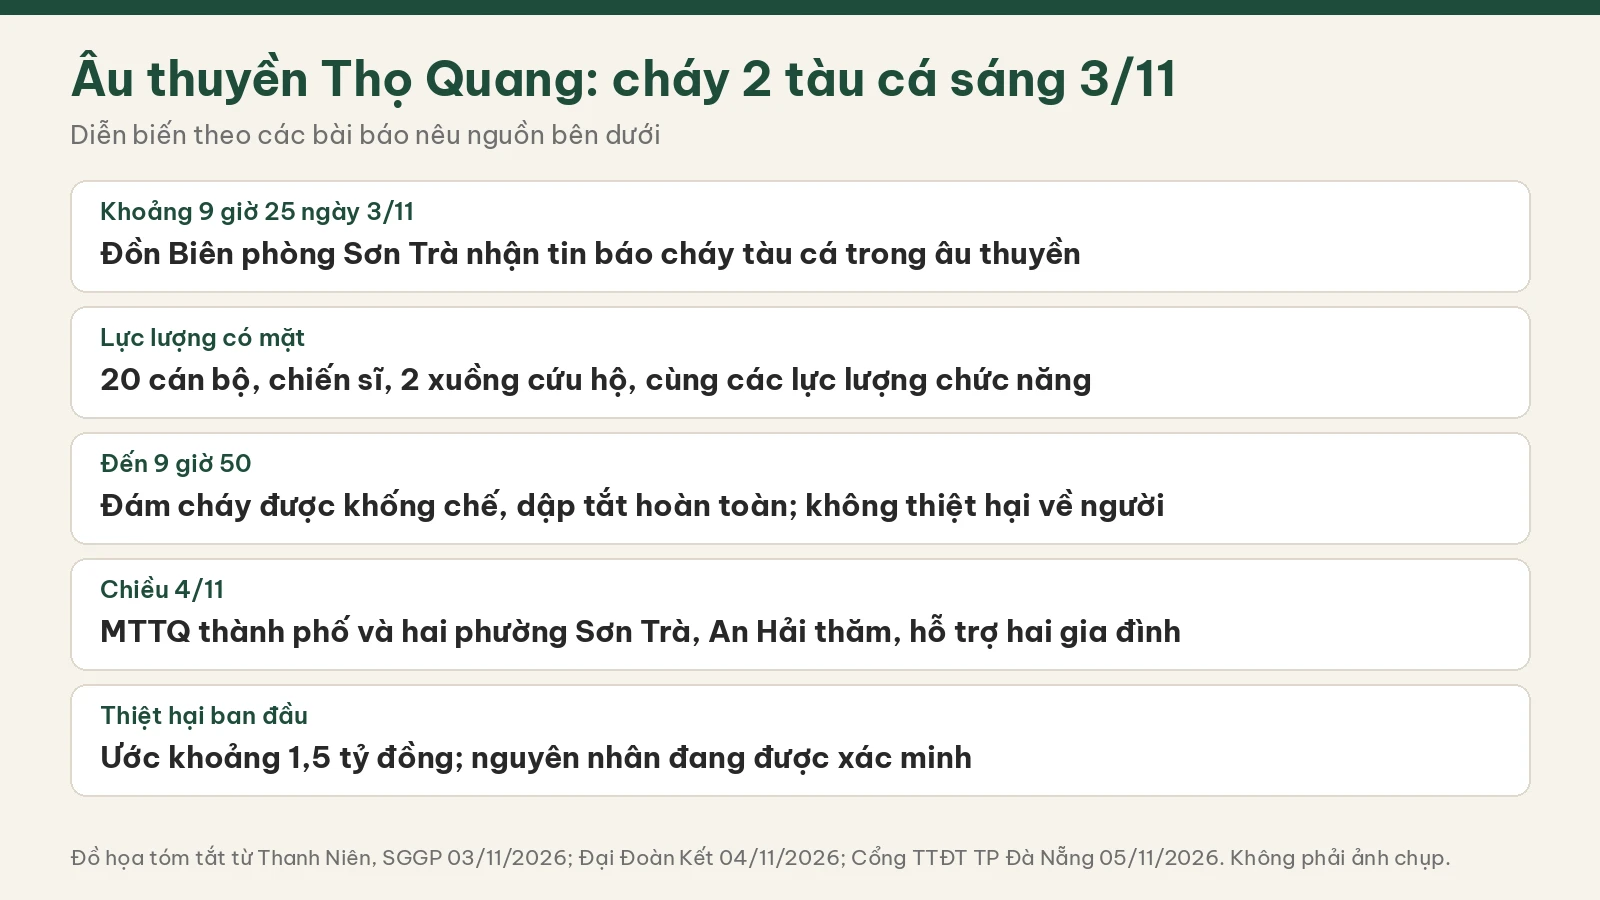
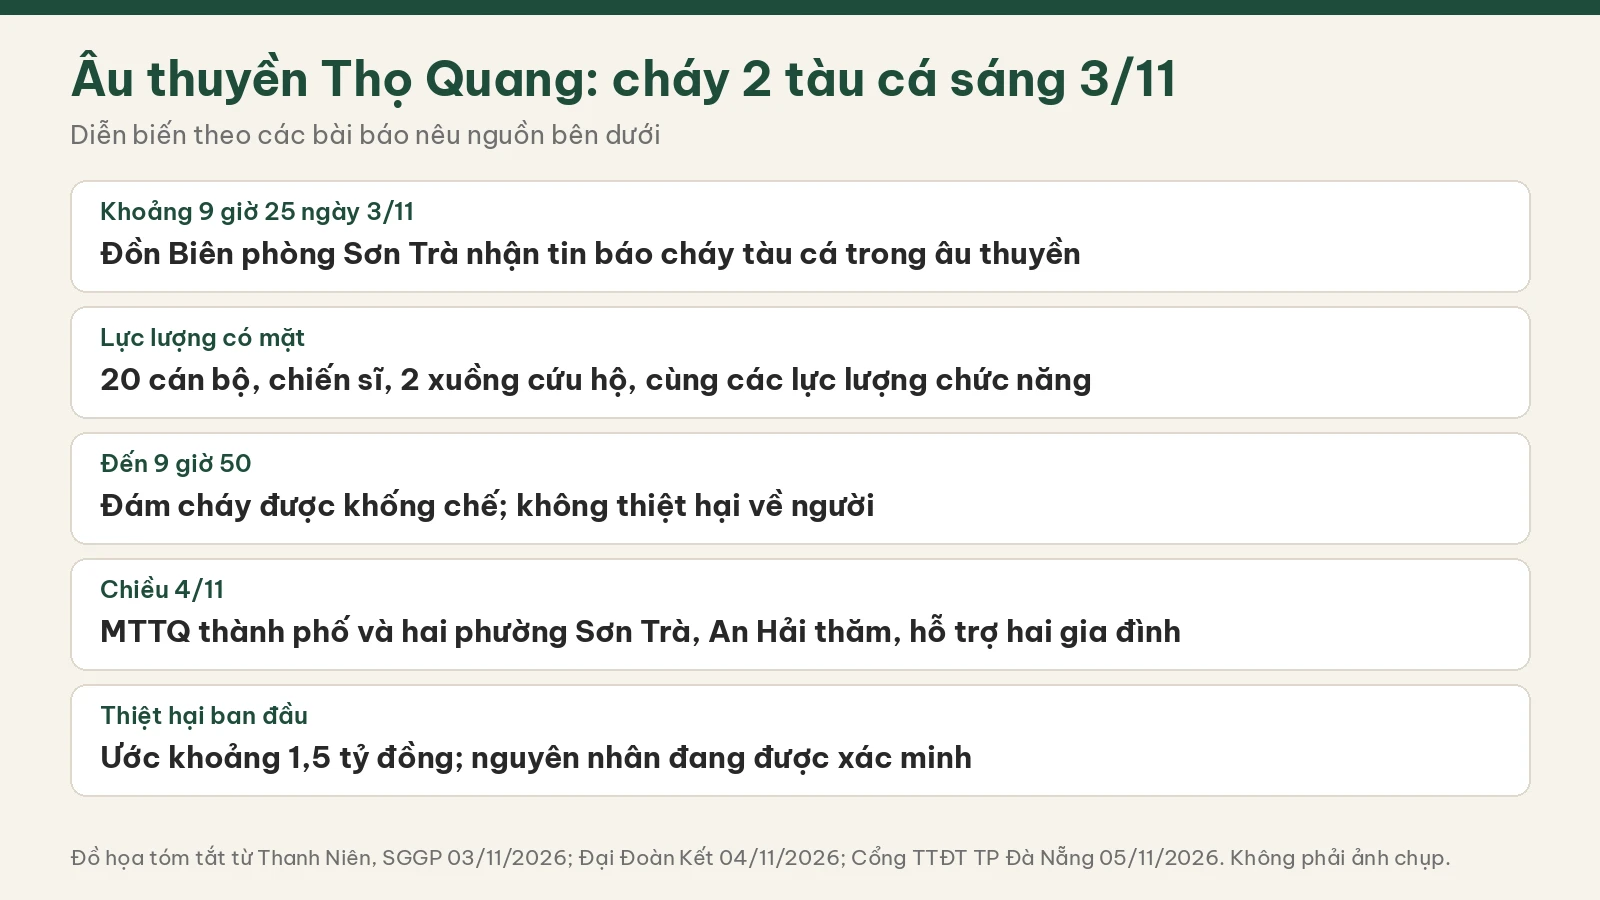
fix(news 05.11): mốc 9 giờ 50 là khống chế (Thanh Niên, SGGP), không ghi dập tắt; CTA đủ địa chỉ Gallery (Luna review)

Changed region(s): [[0.3125, 0.5289, 0.7188, 0.5911]]

diff --git a/src/data/project.ts b/src/data/project.ts
@@ -300,7 +300,7 @@ export const NEWS: NewsArticle[] = [
     date: "05.11.2026",
     title: "Phường Sơn Trà đầu tháng 11: âu thuyền Thọ Quang, cảng Tiên Sa và việc của phường",
     excerpt:
-      "Sáng 3/11, hai tàu cá cháy ở âu thuyền Thọ Quang, dập tắt hoàn toàn lúc 9 giờ 50, không thiệt hại về người. Chiều 4/11, phường Sơn Trà giao ban việc tháng 11.",
+      "Sáng 3/11, hai tàu cá cháy ở âu thuyền Thọ Quang, được khống chế lúc 9 giờ 50, không thiệt hại về người. Chiều 4/11, phường Sơn Trà giao ban việc tháng 11.",
     description:
       "Tin phường Sơn Trà 3–5/11/2026: cháy 2 tàu cá ở âu thuyền Thọ Quang và hỗ trợ ngư dân, tàu Azamara Pursuit cập cảng Tiên Sa, số liệu tháng 10 và việc tháng 11 của phường.",
     image: "/images/news-son-tra-tho-quang-0511-og.jpg",
@@ -333,7 +333,7 @@ export const NEWS: NewsArticle[] = [
         text: "Đồn Biên phòng Sơn Trà điều 20 cán bộ, chiến sĩ cùng 2 xuồng cứu hộ tới hiện trường. Thanh Niên ghi đơn vị phối hợp Đội Cảnh sát PCCC và CNCH trên sông (Công an thành phố), Ban Quản lý âu thuyền và cảng cá Đà Nẵng và Hải đội biên phòng 2.",
       },
       {
-        text: "Đến 9 giờ 50 cùng ngày, đám cháy được khống chế và dập tắt hoàn toàn, theo Thanh Niên và SGGP ngày 03/11/2026. Lúc xảy ra cháy, trên cả hai tàu không có người, nên không có thiệt hại về người.",
+        text: "Đến 9 giờ 50, đám cháy được khống chế (Thanh Niên, SGGP ngày 03/11/2026; SGGP ghi đã dập tắt hoàn toàn). Lúc xảy ra cháy, trên cả hai tàu không có người, nên không có thiệt hại về người.",
       },
       {
         text: "Tiền Phong ngày 03/11/2026 ghi lúc đó có hàng trăm tàu thuyền neo đậu trong âu thuyền. Các tàu ở gần được di chuyển ra vị trí an toàn. Cabin tàu thứ nhất cháy hoàn toàn, tàu thứ hai cháy một phần, theo Thanh Niên.",
@@ -345,7 +345,7 @@ export const NEWS: NewsArticle[] = [
         text: "Đồ họa dưới đây tóm tắt các mốc theo báo. Đồ họa tóm tắt do website thiết kế từ các bài báo nêu nguồn, không phải ảnh chụp.",
         image: "/images/news-son-tra-tho-quang-0511-body-dien-bien.webp",
         imageAlt:
-          "Đồ họa tóm tắt vụ cháy 2 tàu cá ở âu thuyền Thọ Quang: 9 giờ 25 nhận tin báo, 20 cán bộ chiến sĩ và 2 xuồng cứu hộ, 9 giờ 50 dập tắt, chiều 4/11 hỗ trợ, thiệt hại ước 1,5 tỷ đồng.",
+          "Đồ họa tóm tắt vụ cháy 2 tàu cá ở âu thuyền Thọ Quang: 9 giờ 25 nhận tin báo, 20 cán bộ chiến sĩ và 2 xuồng cứu hộ, 9 giờ 50 khống chế, chiều 4/11 hỗ trợ, thiệt hại ước 1,5 tỷ đồng.",
         imageCaption: "Đồ họa tóm tắt do website thiết kế. Không phải ảnh chụp.",
       },
       {
@@ -401,7 +401,7 @@ export const NEWS: NewsArticle[] = [
       },
       {
         heading: "Tìm hiểu căn hộ ở phường Sơn Trà",
-        text: "Nếu anh chị đang tìm hiểu căn hộ sở hữu lâu dài ở phường Sơn Trà, The Camellia Sơn Trà nằm tại giao lộ Lê Văn Lương – Lê Đức Thọ, cách biển Mân Thái khoảng 200 m, giá từ 1,98 tỷ. Anh chị có thể nhắn Nhật qua Zalo 0934 885 108 hoặc ghé Camellia Gallery – Tầng 9, Bạch Đằng Complex.",
+        text: "Nếu anh chị đang tìm hiểu căn hộ sở hữu lâu dài ở phường Sơn Trà, The Camellia Sơn Trà nằm tại giao lộ Lê Văn Lương – Lê Đức Thọ, cách biển Mân Thái khoảng 200 m, giá sàn website từ 1,98 tỷ. Anh chị có thể nhắn Nhật qua Zalo 0934 885 108 hoặc ghé Camellia Gallery – Tầng 9, Bạch Đằng Complex, 50 Bạch Đằng, Đà Nẵng.",
       },
       {
         text: "Các tin trong bài không nêu The Camellia Sơn Trà. Bài không nói các tin này làm đổi giá căn hộ và không cam kết lợi nhuận.",
@@ -413,7 +413,7 @@ export const NEWS: NewsArticle[] = [
       },
       {
         heading: "Vụ cháy ở âu thuyền Thọ Quang có ai bị thương không?",
-        text: "Không. Theo Thanh Niên và SGGP ngày 03/11/2026, lúc xảy ra cháy trên cả hai tàu không có người. Đám cháy được khống chế và dập tắt hoàn toàn lúc 9 giờ 50 sáng 3/11. Nguyên nhân đang được cơ quan chức năng xác minh.",
+        text: "Không. Theo Thanh Niên và SGGP ngày 03/11/2026, lúc xảy ra cháy trên cả hai tàu không có người. Đám cháy được khống chế lúc 9 giờ 50 sáng 3/11. Nguyên nhân đang được cơ quan chức năng xác minh.",
       },
       {
         heading: "Các chủ tàu được hỗ trợ thế nào?",
@@ -425,7 +425,7 @@ export const NEWS: NewsArticle[] = [
       },
       {
         heading: "Lưu ý",
-        text: "Thông tin tổng hợp từ báo chí và Cổng TTĐT TP Đà Nẵng, mang tính tham khảo. Bài không phải thông báo chính thức của UBND phường Sơn Trà, của Đồn Biên phòng Sơn Trà hay của The Camellia Sơn Trà. Giờ dập tắt 9 giờ 50 theo Thanh Niên và SGGP; Tiền Phong cùng ngày ghi đám cháy cơ bản được khống chế khoảng 10 giờ 30, bài dùng mốc của Thanh Niên và SGGP. Bài không nêu tên chủ tàu. Nguồn: Thanh Niên (Huy Đạt), 12:17 03/11/2026 — https://thanhnien.vn/chay-2-tau-ca-tai-au-thuyen-tho-quang-1-tau-bi-thieu-rui-cabin-185261103120354958.htm ; SGGP, 13:38 03/11/2026 — https://www.sggp.org.vn/kip-thoi-khong-che-vu-chay-2-tau-ca-tai-au-thuyen-tho-quang-post879803.html ; Tiền Phong (Duy Quốc), 13:39 03/11/2026 — https://tienphong.vn/tau-ca-chay-tro-khung-tai-au-thuyen-o-da-nang-post1891054.tpo ; Đại Đoàn Kết (Nguyễn Tú), 16:08 04/11/2026 — https://daidoanket.vn/da-nang-ho-tro-cac-gia-dinh-co-tau-ca-bi-chay-tai-au-thuyen-tho-quang.html ; Báo Văn hóa (Thùy Dung), 20:20 04/11/2026 — https://baovanhoa.vn/khoang-1-000-khach-quoc-te-den-da-nang-tren-tau-bien-hang-sang.html ; Báo Đà Nẵng (Đắc Mạnh), 04/11/2026, bản đăng lại — https://www.vietnam.vn/dang-uy-phuong-son-tra-tap-trung-thuc-hien-cac-nhiem-vu-trong-tam-thang-11-2026 ; Cổng TTĐT TP Đà Nẵng, Thông tin báo chí sáng 05/11/2026 — https://danang.gov.vn/vi/w/thong-tin-bao-chi-sang-05-11-2026 Ảnh đầu bài và ảnh tàu biển: Ảnh minh họa tạo bằng AI, không phải ảnh chụp âu thuyền Thọ Quang, cảng Tiên Sa hay The Camellia Sơn Trà. Hai đồ họa tóm tắt do website thiết kế, không phải ảnh chụp.",
+        text: "Thông tin tổng hợp từ báo chí và Cổng TTĐT TP Đà Nẵng, mang tính tham khảo. Bài không phải thông báo chính thức của UBND phường Sơn Trà, của Đồn Biên phòng Sơn Trà hay của The Camellia Sơn Trà. Mốc khống chế 9 giờ 50 theo Thanh Niên và SGGP (SGGP ghi đã dập tắt hoàn toàn); Tiền Phong cùng ngày ghi đám cháy cơ bản được khống chế khoảng 10 giờ 30, bài dùng mốc của Thanh Niên và SGGP. Bài không nêu tên chủ tàu. Nguồn: Thanh Niên (Huy Đạt), 12:17 03/11/2026 — https://thanhnien.vn/chay-2-tau-ca-tai-au-thuyen-tho-quang-1-tau-bi-thieu-rui-cabin-185261103120354958.htm ; SGGP, 13:38 03/11/2026 — https://www.sggp.org.vn/kip-thoi-khong-che-vu-chay-2-tau-ca-tai-au-thuyen-tho-quang-post879803.html ; Tiền Phong (Duy Quốc), 13:39 03/11/2026 — https://tienphong.vn/tau-ca-chay-tro-khung-tai-au-thuyen-o-da-nang-post1891054.tpo ; Đại Đoàn Kết (Nguyễn Tú), 16:08 04/11/2026 — https://daidoanket.vn/da-nang-ho-tro-cac-gia-dinh-co-tau-ca-bi-chay-tai-au-thuyen-tho-quang.html ; Báo Văn hóa (Thùy Dung), 20:20 04/11/2026 — https://baovanhoa.vn/khoang-1-000-khach-quoc-te-den-da-nang-tren-tau-bien-hang-sang.html ; Báo Đà Nẵng (Đắc Mạnh), 04/11/2026, bản đăng lại — https://www.vietnam.vn/dang-uy-phuong-son-tra-tap-trung-thuc-hien-cac-nhiem-vu-trong-tam-thang-11-2026 ; Cổng TTĐT TP Đà Nẵng, Thông tin báo chí sáng 05/11/2026 — https://danang.gov.vn/vi/w/thong-tin-bao-chi-sang-05-11-2026 Ảnh đầu bài và ảnh tàu biển: Ảnh minh họa tạo bằng AI, không phải ảnh chụp âu thuyền Thọ Quang, cảng Tiên Sa hay The Camellia Sơn Trà. Hai đồ họa tóm tắt do website thiết kế, không phải ảnh chụp.",
       },
     ],
   },
